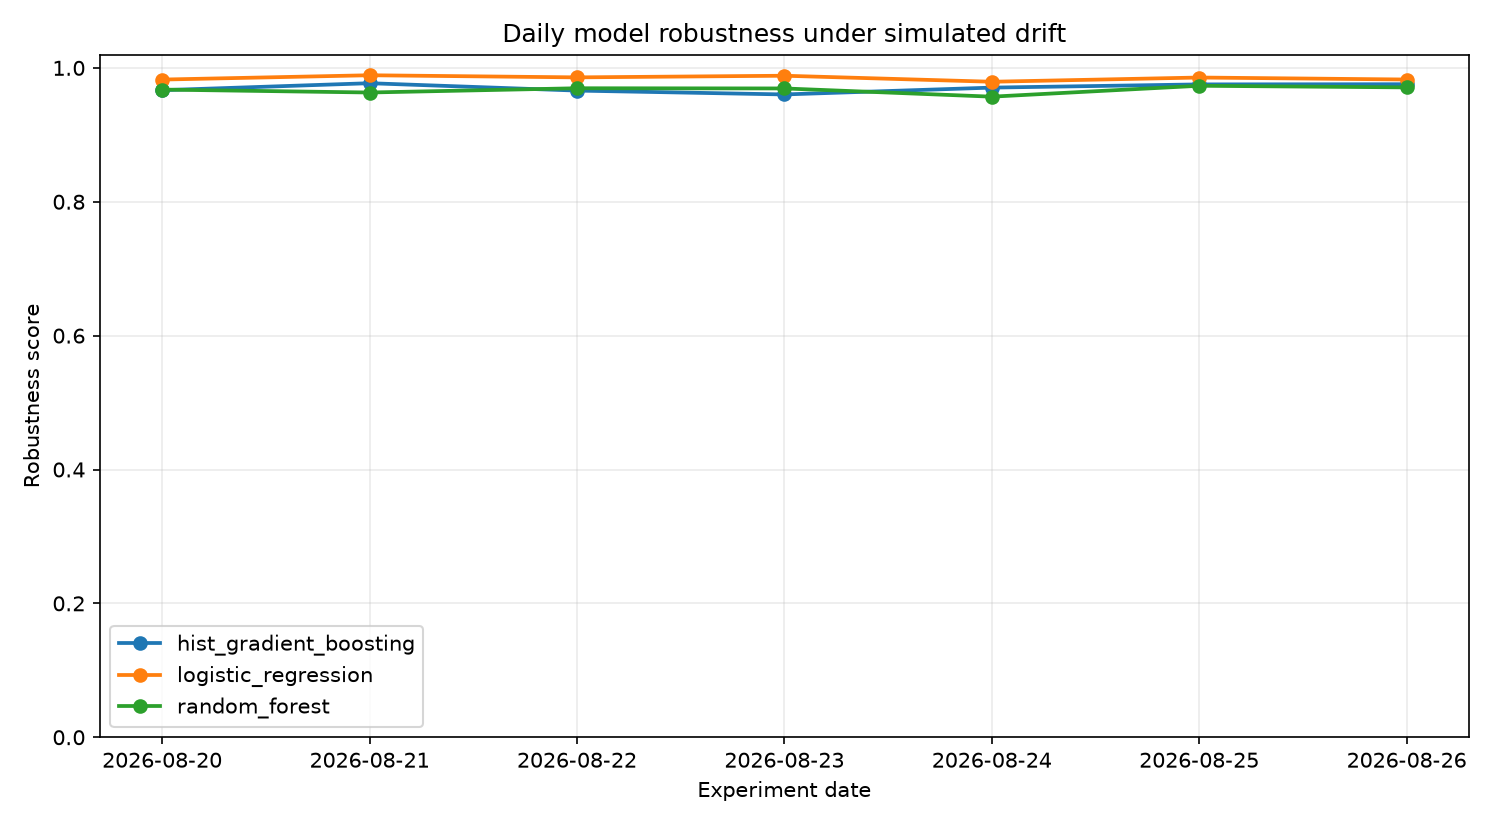
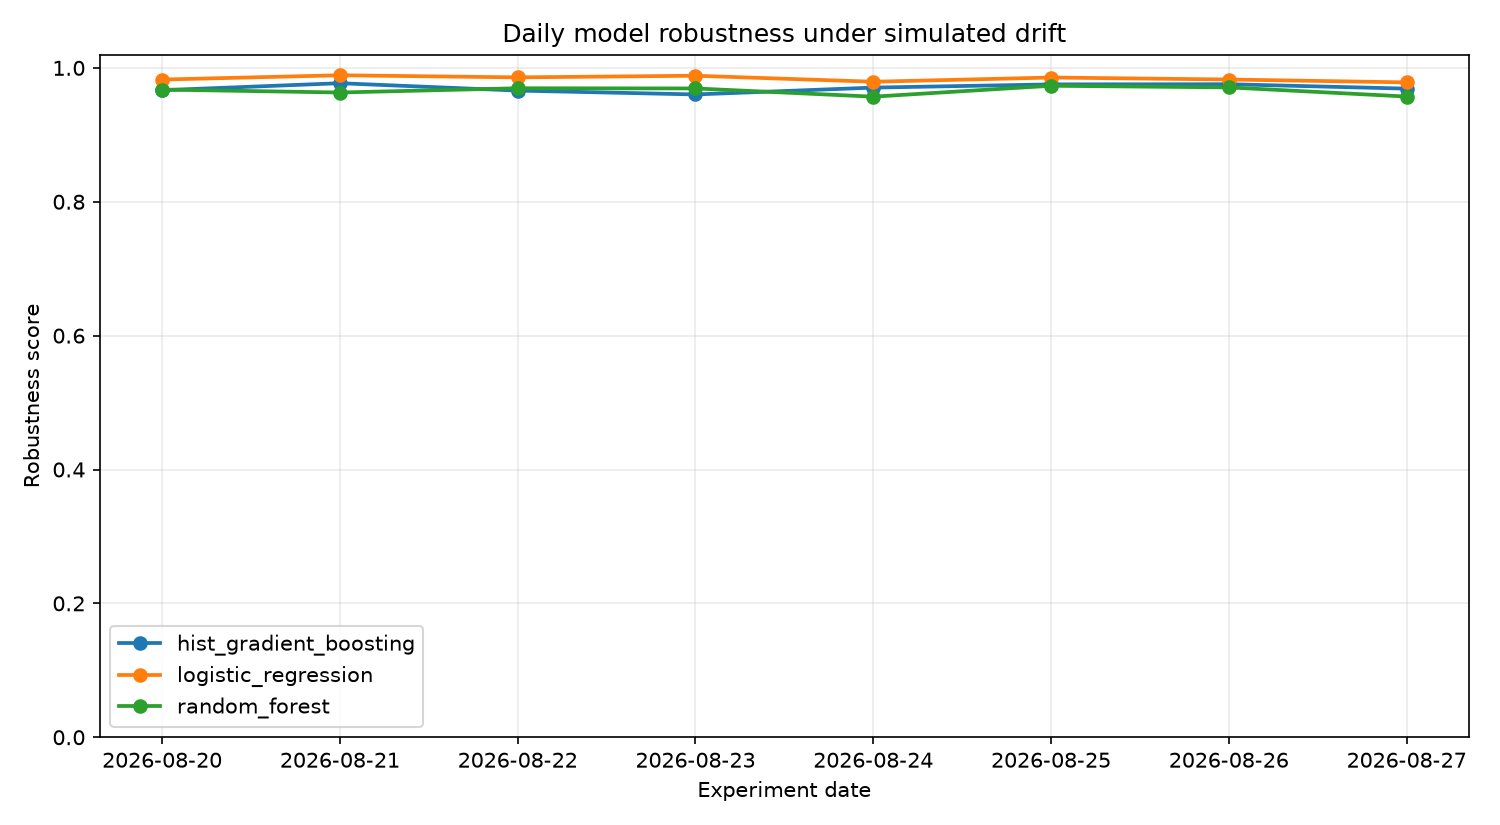
chore(observatory): daily drift benchmark 2026-08-27

diff --git a/reports/latest.md b/reports/latest.md
@@ -1,37 +1,37 @@
 # Latest DriftWatch Report
 
-**Experiment date:** 2026-08-26
+**Experiment date:** 2026-08-27
 
 ## Drift scenario
 
-- Drift strength: `0.483`
-- Scale factor: `0.952`
-- Noise ratio: `0.083`
-- Mask ratio: `0.022`
-- Affected features: radius error, texture error, area error, worst perimeter, worst smoothness, worst compactness, worst symmetry
+- Drift strength: `0.461`
+- Scale factor: `1.046`
+- Noise ratio: `0.080`
+- Mask ratio: `0.021`
+- Affected features: mean smoothness, compactness error, concavity error, worst radius, worst texture, worst concave points, worst fractal dimension
 
 ## Model ranking
 
 | Rank | Model | Robustness | ROC-AUC | F1 | Balanced Acc. | Log Loss | Brier |
 |---:|---|---:|---:|---:|---:|---:|---:|
-| 1 | `logistic_regression` | 0.9826 | 0.9984 | 0.9772 | 0.9609 | 0.0710 | 0.0205 |
-| 2 | `hist_gradient_boosting` | 0.9756 | 0.9917 | 0.9727 | 0.9531 | 0.1420 | 0.0351 |
-| 3 | `random_forest` | 0.9709 | 0.9933 | 0.9636 | 0.9406 | 0.1324 | 0.0368 |
+| 1 | `logistic_regression` | 0.9783 | 0.9969 | 0.9665 | 0.9642 | 0.1059 | 0.0321 |
+| 2 | `hist_gradient_boosting` | 0.9690 | 0.9940 | 0.9515 | 0.9501 | 0.1412 | 0.0408 |
+| 3 | `random_forest` | 0.9572 | 0.9924 | 0.9320 | 0.9252 | 0.1502 | 0.0442 |
 
 ## Highest feature drift (PSI)
 
 | Feature | PSI |
 |---|---:|
-| area error | 0.9202 |
-| worst symmetry | 0.4109 |
-| radius error | 0.4023 |
-| worst perimeter | 0.2499 |
-| worst compactness | 0.2327 |
-| texture error | 0.2322 |
-| worst smoothness | 0.1806 |
-| worst concavity | 0.1434 |
+| concavity error | 1.5919 |
+| compactness error | 0.6434 |
+| worst fractal dimension | 0.3694 |
+| worst concave points | 0.2840 |
+| worst radius | 0.2809 |
+| fractal dimension error | 0.2120 |
+| mean smoothness | 0.2011 |
+| worst texture | 0.1428 |
 
-**Mean PSI:** `0.1394`  
-**Max PSI:** `0.9202`
+**Mean PSI:** `0.1826`  
+**Max PSI:** `1.5919`
 
 _Generated automatically by the DriftWatch daily observatory pipeline._
